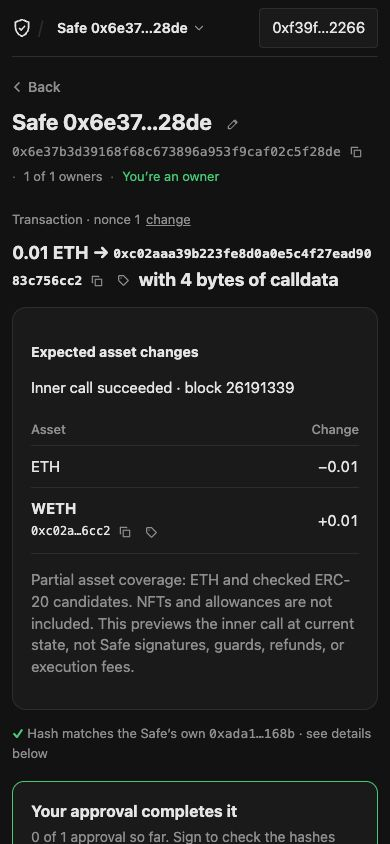
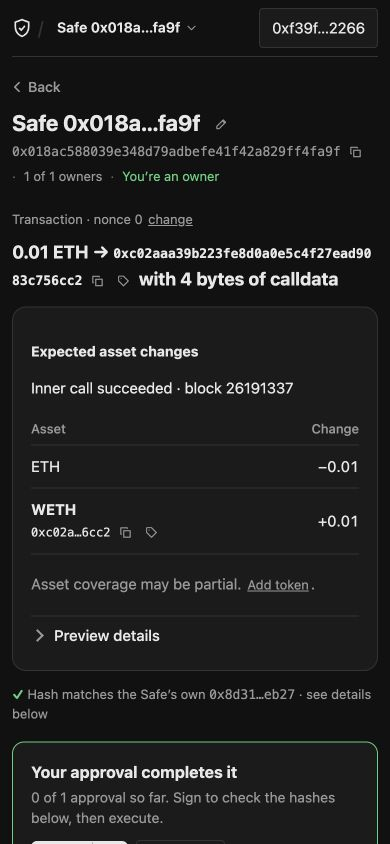
Simplify preview coverage and show ERC-20 allowance changes

diff --git a/src/probe-code.js b/src/probe-code.js
@@ -1,2 +1,2 @@
 // Generated by npm run build:probe; do not edit. Source: contracts/AssetProbe.sol
[2 lines of base64/hex data omitted]

diff --git a/src/app.js b/src/app.js
@@ -857,6 +857,24 @@ const tokenSpec = (t) => (t ? (t.listed ? t.symbol : t.address) : '');
 const transfer = (t, to, v) => (t ? { to: t.address, value: 0n, data: cd(S.transfer, to, v) } : { to, value: v, data: '0x' });
 const prefilled = () => warn('Prefilled from a link. Check every recipient, amount and token before reviewing.');
 
+function addTokenDialog(refresh) {
+  const { body, close } = sheet('plus', 'Add token');
+  const chainId = st.chainId, input = h('input', { placeholder: 'Token address 0x…', spellcheck: 'false', 'aria-label': 'Token address' }), out = h('div');
+  put(body, h('p.mut', 'Saved in this browser for every Safe on ' + chain().name + '.'), input,
+    h('div.actions', button('Add token', async () => {
+      const a = input.value.trim().toLowerCase();
+      if (!isAddr(a)) throw Error('Enter a token contract address.');
+      const t = await meta(a, chain().name);
+      if (st.chainId !== chainId) throw Error('Network changed. Reopen Add token.');
+      save(chainId, [...saved(chainId).filter((x) => x.address !== a), t]);
+      st.tokens[a] = st.tokens[a] || t;
+      st.balFor = null;
+      close();
+      await refresh();
+    }, out, '.primary')), out);
+  input.focus();
+}
+
 function assetsTab(s) {
   const c = chain(), rows = h('div', h('p.mut', 'Loading balances…')), pend = h('div');
   // Actions show on row hover (always on touch). Nothing to send: no Send.
@@ -879,23 +897,6 @@ function assetsTab(s) {
   const asset = (name, sub, actions) => h('td', h('div.arow', h('div', name, sub), h('span.grow'), actions));
   const removeBtn = (t) =>
     !t.listed && h('button.ib', { title: 'Remove from your token list', 'aria-label': 'Remove ' + t.symbol, onclick: () => (save(st.chainId, saved(st.chainId).filter((x) => x.address !== t.address)), forgetToken(st.chainId, s.address, t.address), delete st.tokens[t.address], st.balFor = null, draw()) }, icon(...ICONS.close));
-  const addIn = h('input', { placeholder: 'Token address 0x…', spellcheck: 'false' }), addOut = h('div');
-  const add = button(
-    'Add token',
-    async () => {
-      const a = addIn.value.trim().toLowerCase();
-      if (!isAddr(a)) throw Error('Enter a token contract address.');
-      const t = await meta(a, chain().name);
-      save(st.chainId, [...saved(st.chainId).filter((x) => x.address !== a), t]);
-      st.tokens[a] = st.tokens[a] || t;
-      st.balFor = null;
-      addIn.value = '';
-      await loadBalances(s);
-      draw();
-    },
-    addOut,
-  );
-  const addBox = h('div.addtoken', { hidden: true }, h('p.mut', 'Added tokens are saved in this browser for every Safe on ' + c.name + '.'), h('div.row', addIn, add), addOut);
   const draw = () => {
     const nHid = held().filter((t) => hidden.has(t.address)).length;
     const note = [c.mainnet && 'Zero balances hidden', nHid > 0 && nHid + (nHid > 1 ? ' tokens' : ' token') + ' hidden'].filter(Boolean).join(' · ');
@@ -921,13 +922,13 @@ function assetsTab(s) {
         'div.afoot',
         note && h('span.mut', note, nHid > 0 && [' · ', h('button.link', { onclick: () => ((showHidden = !showHidden), draw()) }, showHidden ? 'Hide them' : 'Show')]),
         h('span.grow'),
-        h('button.link.addlink', { onclick: () => ((addBox.hidden = !addBox.hidden), addBox.hidden || addIn.focus()) }, icon(...ICONS.plus), 'Add token'),
+        h('button.link.addlink', { onclick: () => addTokenDialog(async () => { await loadBalances(s); draw(); }) }, icon(...ICONS.plus), 'Add token'),
       ),
     );
   };
   loadBalances(s).then(draw, (e) => put(rows, warn('Could not read token balances: ' + e.message)));
   loadPending(s).then((r) => r.found.length && put(pend, h('a.callout', { href: link('transactions') }, h('b', r.found.length + ' pending transaction' + (r.found.length > 1 ? 's' : '')), ' published onchain · Review ›')), () => {});
-  return [pend, rows, addBox];
+  return [pend, rows];
 }
 
 /** Balance with two decimals when it has any fraction, so a column compares at a glance (exact on hover). */
@@ -1847,7 +1848,9 @@ const button = (label, fn, out, cls = '') => {
   return b;
 };
 
-function assetPreview(a) {
+const allowanceAmount = (v, decimals) => v === (1n << 256n) - 1n ? 'Unlimited' : fmt(v, decimals);
+
+function assetPreview(a, r) {
   const label = a.status === 'success' ? 'Inner call succeeded' : a.status === 'failed' ? 'Inner call failed' : 'Unavailable';
   return h('section.panel', h('h3', 'Expected asset changes'),
     h('p', label, a.block && ' · block ' + BigInt(a.block)),
@@ -1857,8 +1860,16 @@ function assetPreview(a) {
         h('td', t.address === ZERO ? chain().sym : [h('b', t.symbol), h('div', addr(t.address, null, short(t.address)))]),
         h('td.num', (t.delta > 0n ? '+' : '−') + fmt(t.delta < 0n ? -t.delta : t.delta, t.address === ZERO ? 18 : t.decimals)),
       ))) : h('p.mut', 'No balance changes found among checked assets.')),
-    a.notes.map((n) => h('p.warn', n)),
-    h('p.mut', 'Partial asset coverage: ETH and checked ERC-20 candidates. NFTs and allowances are not included. This previews the inner call at current state, not Safe signatures, guards, refunds, or execution fees.'),
+    a.status === 'success' && a.allowances.length > 0 && [h('h3', 'Allowance changes'),
+      a.allowances.map((t) => h('div', h('b', t.symbol), ' ', addr(t.address, null, short(t.address)),
+        h('div', 'Spender ', addr(t.spender)),
+        h('p', allowanceAmount(t.before, t.decimals), ' → ', allowanceAmount(t.after, t.decimals))))],
+    h('p.mut', 'Asset coverage may be partial. ', h('button.link', { onclick: () => addTokenDialog(async () => {
+      if (st.review === r) await showReview(r.tx, st.sigs, 'replace');
+    }) }, 'Add token'), '.'),
+    h('details', h('summary', 'Preview details'),
+      a.notes.map((n) => h(a.status === 'success' ? 'p.mut' : 'p.warn', n)),
+      h('p.mut', 'Checks ETH, candidate ERC-20 tokens and direct approval calls (including batches). Other allowances and NFTs may be missed. Uses current state; Safe signatures, guards, refunds and execution fees are not checked.')),
   );
 }
 
@@ -1904,7 +1915,7 @@ function reviewHead(r) {
     r.danger.map((d) => h('p.bad.danger', d)),
     r.errors.map((e) => bad(e)),
     r.warnings.map((w) => warn(w)),
-    r.assets && assetPreview(r.assets),
+    r.assets && assetPreview(r.assets, r),
     // An upgrade: the Safe as it would be afterwards, read through the new singleton.
     r.after && h('p.rvhash', h('b.ok', '✓'), ' Simulated after the upgrade: Safe ' + r.after.version + ' · ' + r.after.threshold + ' of ' + r.after.owners.length + ' owners · ' + (r.after.modules.length === 1 ? '1 module' : r.after.modules.length + ' modules') + (r.after.guard ? ' · guard kept' : '') + ', as now.'),
     r.chain === r.local && h('p.rvhash', h('b.ok', '✓'), ' Hash matches the Safe’s own ', h('code', short(r.local)), ' · see details below'),

diff --git a/src/assets.js b/src/assets.js
@@ -8,7 +8,7 @@ import { catalog, clean, rememberTokens } from './tokens.js';
 import { PROBE_CODE } from './probe-code.js';
 
 export const PROBE = '0x' + strip(keccakText('safe.wei asset probe v1')).slice(-40);
-const SELECTOR = strip(keccakText('preview(address,uint256,bytes,uint8,address[])')).slice(0, 8);
+const SELECTOR = strip(keccakText('preview(address,uint256,bytes,uint8,address[],address[],address[])')).slice(0, 8);
 const LIMIT = 128;
 
 /** Exact StorageAccessible revert envelope, then exact ABI uint256[] from our helper. */
@@ -38,6 +38,19 @@ export function candidates(t, access, known) {
   return [...new Set([...explicit, ...access, ...known.map((x) => x.address), ...words].filter(isAddr).map((a) => a.toLowerCase()))].filter((a) => a !== ZERO && a !== PROBE && a !== t.safe);
 }
 
+// Only canonical direct ERC-20 approval calls, including CALLs inside a decoded batch.
+// These identify probe pairs; only allowance() before/after determines the displayed result.
+export function approvalPairs(t) {
+  const pairs = new Map();
+  for (const c of unpack(t) || [t]) {
+    const d = (c.data || '').toLowerCase();
+    if (c.operation || !/^0x(095ea7b3|39509351|a457c2d7)0{24}[0-9a-f]{104}$/.test(d)) continue;
+    const token = c.to.toLowerCase(), spender = '0x' + d.slice(34, 74);
+    pairs.set(token + spender, { token, spender });
+  }
+  return [...pairs.values()];
+}
+
 async function tokenMeta(address, block) {
   const read = async (data) => rpc('eth_call', [{ to: address, data, gas: '0xea60' }, block]);
   const d = await read('0x' + S.decimals);
@@ -56,7 +69,7 @@ async function tokenMeta(address, block) {
 }
 
 export async function assetChanges(t) {
-  const result = { status: 'unavailable', changes: [], notes: [], block: null };
+  const result = { status: 'unavailable', changes: [], allowances: [], notes: [], block: null };
   try {
     const block = result.block = await rpc('eth_blockNumber');
     if (t.safe === PROBE || t.to === PROBE || await rpc('eth_getCode', [PROBE, block]) !== '0x') throw Error('Simulation helper address is occupied');
@@ -71,12 +84,15 @@ export async function assetChanges(t) {
       access = a.accessList.map((x) => x.address);
       // simulateAndRevert intentionally reverts; its access list remains useful.
       if (a.error && !t.operation) result.notes.push('Discovery stopped at a reverting call.');
-    } catch { result.notes.push('Access-list discovery unavailable; checking known tokens and transaction candidates.'); }
+    } catch { result.notes.push('Token discovery unavailable; checking known tokens.'); }
     const all = candidates(t, access, known), addresses = all.slice(0, LIMIT);
     if (all.length > LIMIT) result.notes.push('Token candidate limit reached (128).');
-    const data = cd(S.simulateAndRevert, PROBE, B(cd(SELECTOR, t.to, t.value, B(t.data), t.operation, addresses)));
+    const approvals = approvalPairs(t);
+    if (approvals.length > LIMIT) result.notes.push('Allowance candidate limit reached (128).');
+    const pairs = approvals.slice(0, LIMIT);
+    const data = cd(S.simulateAndRevert, PROBE, B(cd(SELECTOR, t.to, t.value, B(t.data), t.operation, addresses, pairs.map((p) => p.token), pairs.map((p) => p.spender))));
     const error = await rpc('eth_call', [{ from: t.safe, to: t.safe, data, gas: '0x1c9c380' }, block, { [PROBE]: { code: PROBE_CODE } }]).then(() => null, (e) => e);
-    const decoded = decodePreview(revertData(error), addresses.length);
+    const decoded = decodePreview(revertData(error), addresses.length + pairs.length);
     result.status = decoded.success ? 'success' : 'failed';
     if (!decoded.success) return result;
     if (decoded.native) result.changes.push({ address: ZERO, delta: decoded.native });
@@ -96,6 +112,14 @@ export async function assetChanges(t) {
       }
       if (!token.listed && (b.before || b.after)) found.push(token);
       if (b.after !== b.before) result.changes.push({ ...token, delta: b.after - b.before });
+    }
+    for (let i = 0; i < pairs.length; i++) {
+      const { token: address, spender } = pairs[i], b = decoded.tokens[addresses.length + i];
+      if (!b.ok) { result.notes.push('Allowance unreadable: ' + address); continue; }
+      if (b.before === b.after) continue;
+      const token = known.find((x) => x.address === address) || await tokenMeta(address, block).catch(() => null);
+      if (!token) { result.notes.push('Unclassified allowance changed: ' + address); continue; }
+      result.allowances.push({ ...token, spender, before: b.before, after: b.after });
     }
     rememberTokens(t.chainId, t.safe, found);
     return result;

diff --git a/docs/spec.md b/docs/spec.md
@@ -1453,6 +1453,6 @@ The production artifact should be small enough that an experienced Ethereum deve
 
 `contracts/AssetProbe.sol` is compiled reproducibly with pinned solc, optimizer 200 runs, Paris EVM and no metadata trailer. The embedded runtime is injected at an otherwise empty helper address using an `eth_call` state override. Safe's original proxy code/storage remain intact. Safe `simulateAndRevert` delegates to the helper, which measures native and candidate token balances before and after the original CALL/DELEGATECALL. Canonical MultiSend executes atomically. Only the helper code is overridden, never funds or token storage. All writes revert. Balance probes use 75,000 gas and copy at most 32 bytes; unknown metadata uses capped calls. Invalid balance reads remain unknown.
 
-The return envelope and array length/flags are decoded exactly. Failed inner calls display no deltas. Missing revert data, unsupported overrides, exhausted gas or malformed output yield an unavailable result while preserving existing checks. The preview is shown before signing, with exact amounts and short token addresses (full on hover/copy, matching Assets). Transaction destination addresses remain full. It excludes full `execTransaction` validation, executor context, guards, refunds and fees; current state is used even for future Safe nonces. NFTs and allowances are outside its coverage.
+The return envelope and array length/flags are decoded exactly. Failed inner calls display no deltas. Missing revert data, unsupported overrides, exhausted gas or malformed output yield an unavailable result while preserving existing checks. The preview is shown before signing, with exact amounts and short token addresses (full on hover/copy, matching Assets). Transaction destination addresses remain full. It excludes full `execTransaction` validation, executor context, guards, refunds and fees; current state is used even for future Safe nonces. Allowance probes cover canonical direct `approve`, `increaseAllowance`, and `decreaseAllowance` CALLs, including decoded batches. Up to 128 distinct token/spender pairs are measured with gas-capped `allowance(Safe, spender)` before and after the atomic call, using the same strict result format. Values come from execution, not calldata amounts; unchanged and unreadable pairs are not presented as changes. Other allowances (including Permit2 and indirect approvals) and NFTs are outside coverage. Successful discovery fallback is muted under Preview details; a brief partial-coverage notice opens a shared Add token dialog, saves locally and refreshes review while preserving signatures.
 
 Metadata is cached per chain/address; discovered membership is per chain/Safe (128 entries). Only balance-probed ERC-20 candidates with valid decimals and non-zero before/after balances are remembered, and only on successful previews. Registry metadata wins, manual-add provenance remains independent, and discovered zero balances are hidden. Refreshing the Assets tab reads current balances through Multicall3 after preview/execution invalidates the balance cache. Discovery is local convenience data, never balances or backup/share payload content.

diff --git a/docs/guide.md b/docs/guide.md
@@ -401,6 +401,8 @@ Links can prefill the transaction builder with a call (`#/<safe>/custom?to=&valu
 
 Transaction review shows exact positive and negative ETH/ERC-20 balance changes at the displayed block. Token addresses in the asset preview are shortened like those in Assets, with full addresses on hover and copy. It uses your connected RPC (or your configured endpoint), with no extra service, deployment, or artificial funding. Unsupported state overrides or unreadable results show “Unavailable”; access-list discovery failures fall back to known tokens and transaction candidates. A failed inner call shows no predicted transfers.
 
-Coverage is partial: a successful preview does not guarantee all assets were found or that full Safe execution will succeed. NFTs, allowance changes, signatures, guards, gas refunds, and execution fees are not included. A queued transaction is previewed against current state, without executing preceding nonces.
+A quiet “Asset coverage may be partial” notice links to **Add token**, which opens a dialog without leaving review and refreshes the preview after saving. Discovery diagnostics and scope limits are under **Preview details**.
+
+Coverage is partial: a successful preview does not guarantee all assets were found or that full Safe execution will succeed. The preview checks allowance changes for canonical direct `approve`, `increaseAllowance`, and `decreaseAllowance` calls, including batches, showing actual before/after amounts (or Unlimited). Other allowances, NFTs, signatures, guards, gas refunds, and execution fees are not included. A queued transaction is previewed against current state, without executing preceding nonces.
 
 Tokens discovered during successful previews are remembered locally for that Safe and chain, after balance and ERC-20 metadata checks. The Assets tab reads their actual onchain balances afresh; predicted receipts never become holdings. Discovered tokens hide at zero and can be removed; they use the same balance-row presentation as other tokens. Manually added tokens remain visible at zero. The token registry remains the source of listed metadata; discovery does not imply endorsement. No balances are stored in the discovery cache, and this cache is not included in backups.

diff --git a/docs/size.md b/docs/size.md
@@ -45,9 +45,9 @@ Budget (spec §19): ideal < 50 KB, good < 100 KB, acceptable < 300 KB raw (raise
 | block explorers | 223,972 | 78,639 | 188,902 | 32,828 | providers in the config chunk (config/explorers.json), Blockscout / Routescan by default, Settings → Block explorer, refusals fall back to the RPC, receipts check logs without a block hash, ABIs from any of them |
 | Create a Safe: one by one or a list, review as a step | 230,459 | 80,624 | 193,298 | 34,919 | owners added one by one with labels (known labels shown, your labels suggested), or pasted as address[,label] lines; the summary as its own step, owners by name over their full address |
 | Safe upgrade | 236,078 | 82,545 | 198,917 | 34,919 | Upgrade to the next tested version in Settings → Contract through Safe's SafeMigration; the review checks the call, the migration contract and the Safe afterwards |
-| RPC-native asset previews and token discovery | 244,310 | 85,771 | 207,149 | 34,919 | temporary Safe-context helper, access-list candidates, shared token catalog and per-Safe discovery |
+| RPC-native asset previews and token discovery | 246,598 | 86,501 | 209,437 | 34,919 | temporary Safe-context helper, access-list candidates, shared token catalog and per-Safe discovery |
 
-The page is now about 239 KB (244,310 bytes, 85,771 gzip): under the 300 KB limit (307,200 bytes), with about 61 KB left. The rows from hide tokens on were measured at each merge on `main`. Each extra 24,575-byte chunk adds roughly 5M gas to the deploy. Recent growth: WalletConnect (about 25 KB with its crypto and the QR encoder), message signing, the ABI decoder. Onchain it takes 9 chunks of up to 24,575 bytes plus the config chunk (~44M gas, docs/deploy.md → Cost).
+The page is now about 241 KB (246,598 bytes, 86,501 gzip): under the 300 KB limit (307,200 bytes), with about 59 KB left. The rows from hide tokens on were measured at each merge on `main`. Each extra 24,575-byte chunk adds roughly 5M gas to the deploy. Recent growth: WalletConnect (about 25 KB with its crypto and the QR encoder), message signing, the ABI decoder. Onchain it takes 9 chunks of up to 24,575 bytes plus the config chunk (~44M gas, docs/deploy.md → Cost).
 
 ## Major contributors
 

diff --git a/README.md b/README.md
@@ -118,6 +118,6 @@ See [docs/deploy.md](docs/deploy.md): deterministic CREATE2 deployment of the pa
 
 ### Asset-change previews
 
-Transaction review previews ETH and ERC-20 balance changes through the connected RPC, without a simulation service. A temporary helper runs inside the Safe through `simulateAndRevert`, preserving its code and real balances. Registry tokens, manually added tokens, per-Safe discoveries, and transaction access-list candidates share one catalog. Discovery is incomplete; unsupported RPCs retain the existing warning checks. NFTs, allowances, signatures, guards and execution fees are outside this preview.
+Transaction review previews ETH and ERC-20 balance changes through the connected RPC, without a simulation service. A temporary helper runs inside the Safe through `simulateAndRevert`, preserving its code and real balances. Registry tokens, manually added tokens, per-Safe discoveries, and transaction access-list candidates share one catalog. Discovery is incomplete; unsupported RPCs retain the existing warning checks. Direct ERC-20 approval calls and batches show measured allowance changes. A short partial-coverage notice links to Add token; diagnostics live under Preview details. Other allowances, NFTs, signatures, guards and execution fees are outside this preview.
 
 The helper source is `contracts/AssetProbe.sol`; `npm run build:probe` regenerates its embedded runtime using the pinned compiler. `node scripts/build-probe.mjs --check` verifies reproducibility. No Solidity compiler ships in the HTML.

diff --git a/docs/links.md b/docs/links.md
@@ -175,4 +175,4 @@ Rules for changing safe.wei:
 
 ### Asset previews and local token discoveries
 
-Opening a transaction link runs the RPC-native asset preview when available, using the recipient's RPC and local token catalog. Preview results, block numbers and discovered-token caches are not serialized into transaction/message/import links, transaction JSON, or backups. All existing wire formats and golden vectors remain unchanged.
+Opening a transaction link runs the RPC-native asset preview when available, using the recipient's RPC and local token catalog. Balance/allowance preview results, block numbers and discovered-token caches are not serialized into transaction/message/import links, transaction JSON, or backups. All existing wire formats and golden vectors remain unchanged.
